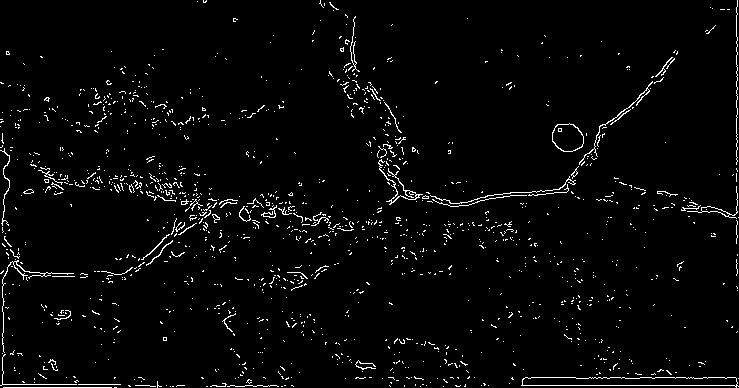
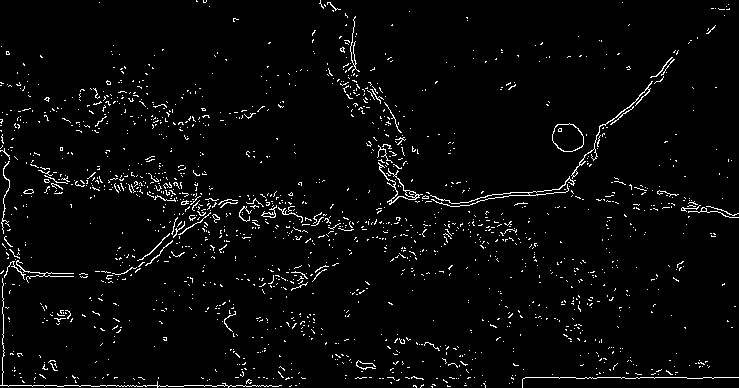
Image Processing Algorithm updated

diff --git a/Extracting_info/combine_integral.py b/Extracting_info/combine_integral.py
@@ -1,0 +1,61 @@
+#Horizontal integral projection
+import numpy as np
+import cv2 as cv
+from matplotlib import pyplot as plt
+
+img=cv.imread("Extracting_info/morphological.jpg",0)
+ret,img1=cv.threshold(img,80,255,cv.THRESH_BINARY)
+
+#to get the height and width of image
+(h,w)=img1.shape
+
+#初始化一个跟图像高一样长度的数组，用于记录每一行的黑点个数
+a=[0 for z in range(0,h)]
+
+for i in range(0,h):          #遍历每一行
+    for j in range(0,w):      #遍历每一列
+        if img1[i,j]==0:      #判断该点是否为黑点，0代表黑点
+            a[i]+=1           #该行的计数器加一
+            img1[i,j]=255     #将其改为白点，即等于255
+for i in range(0,h):          #遍历每一行
+    for j in range(0,a[i]):   #从该行应该变黑的最左边的点开始向最右边的点设置黑点
+        img1[i,j]=0           #设置黑点
+
+#垂直投影
+import numpy as np
+import cv2 as cv
+img=cv.imread("Extracting_info/morphological.jpg",0)
+ret,img2=cv.threshold(img,80,255,cv.THRESH_BINARY)
+
+#返回图像的高和宽
+(h,w)=img2.shape
+
+#初始化一个跟图像宽一样长度的数组，用于记录每一列的黑点个数
+a =[0 for z in range(0,w)]
+
+for i in range(0,w):           #遍历每一列
+    for j in range(0,h):       #遍历每一行
+        if img2[j,i]==0:       #判断该点是否为黑点，0代表是黑点
+            a[i]+=1            #该列的计数器加1
+            img2[j,i]=255      #记录完后将其变为白色，即等于255
+for i in range(0,w):           #遍历每一列
+    for j in range(h-a[i],h):  #从该列应该变黑的最顶部的开始向最底部设为黑点
+        img2[j,i]=0            #设为黑点
+
+gridsize = (4, 4)
+fig = plt.figure(figsize=(12, 6))
+ax1 = plt.subplot2grid(gridsize, (0, 1), colspan=3, rowspan=3) 
+ax1.imshow(img,cmap = 'gray')
+plt.xticks([])
+plt.yticks([])
+ax2 = plt.subplot2grid(gridsize, (0, 0), rowspan=3)
+img1 = cv.resize(img1,(500,1300))
+ax2.imshow(img1,cmap = 'gray')
+plt.xticks([])
+plt.yticks([])
+ax3 = plt.subplot2grid(gridsize, (3, 1), colspan=3)
+img2 = cv.resize(img2,(3200,500))
+ax3.imshow(img2,cmap = 'gray')
+plt.xticks([])
+plt.yticks([])
+plt.show()

diff --git a/Extracting_info/largest_contour.py b/Extracting_info/largest_contour.py
@@ -1,0 +1,28 @@
+import cv2
+import numpy as np
+import matplotlib.pyplot as plt
+
+if __name__ == '__main__':
+    img = cv2.imread('Extracting_info/morphological.jpg')
+    gray = cv2.cvtColor(img, cv2.COLOR_BGR2GRAY)
+
+    #find contours of all the components and holes 
+    gray_temp = gray.copy() #copy the gray image because function
+                            #findContours will change the imput image into another  
+    contours, hierarchy = cv2.findContours(gray_temp, cv2.RETR_TREE, cv2.CHAIN_APPROX_NONE)
+
+    #show the contours of the imput image
+    cv2.drawContours(img, contours, -1, (0, 255, 255), 2)
+    plt.figure('original image with contours'), plt.imshow(img, cmap = 'gray')
+
+    #find the max area of all the contours and fill it with 0
+    area = []
+    for i in range(len(contours)):
+        area.append(cv2.contourArea(contours[i]))
+    max_idx = np.argmax(area)
+    cv2.fillConvexPoly(gray, contours[max_idx], 0)
+    #show image without max connect components 
+    plt.figure('remove max connect com'), plt.imshow(gray, cmap = 'gray')
+
+    cv2.imwrite('Extracting_info/largest_contour.jpg', gray)
+    plt.show()

diff --git a/Extracting_info/contour_area_count.py b/Extracting_info/contour_area_count.py
@@ -1,0 +1,31 @@
+import cv2
+import numpy as np
+
+# Load image, convert to grayscale, Otsu's threshold
+image = cv2.imread('Extracting_info/largest_contour.jpg')
+gray = cv2.cvtColor(image,cv2.COLOR_BGR2GRAY)
+thresh = cv2.threshold(gray, 0, 255, cv2.THRESH_BINARY + cv2.THRESH_OTSU)[1]
+
+# Find contours, obtain bounding rect, and draw width
+cnts = cv2.findContours(thresh, cv2.RETR_EXTERNAL, cv2.CHAIN_APPROX_SIMPLE)
+print(type(cnts))
+cnts = cnts[0] if len(cnts) == 2 else cnts[1]
+for c in cnts:
+    x,y,w,h = cv2.boundingRect(c)
+    area = cv2.contourArea(c)
+    if area < 3:
+        continue
+    if h < 30 or h >150:
+        continue
+    print(area)
+    rect = cv2.minAreaRect(c)
+    box = cv2.boxPoints(rect)
+    box = np.int0(box)
+    print(box)
+    image = cv2.drawContours(image,[box],0,(0,0,255),2)
+    cv2.putText(image, str(area), (x,y), cv2.FONT_HERSHEY_SIMPLEX, 0.5, (36,255,12), 2)
+    #cv2.rectangle(image, (x, y), (x + w, y + h), (36,255,12), 1)
+
+cv2.imshow('image', image)
+cv2.imwrite('Extracting_info/final_result.jpg', image)
+cv2.waitKey()

diff --git a/Extracting_info/morphological.py b/Extracting_info/morphological.py
@@ -2,12 +2,13 @@ import cv2 as cv
 import numpy as np
 from matplotlib import pyplot as plt
 img = cv.imread('Extracting_info/canny_edge.jpg',0)
-kernel = np.ones((4,4),np.uint8)
+kernel = np.ones((3,3),np.uint8)
 closing = cv.morphologyEx(img, cv.MORPH_CLOSE, kernel)
 
+cv.imwrite('Extracting_info/morphological_new.jpg', closing)
 plt.subplot(121),plt.imshow(img,cmap = 'gray')
 plt.title('Original Image'), plt.xticks([]), plt.yticks([])
 plt.subplot(122),plt.imshow(closing,cmap = 'gray')
 plt.title('Edge Image'), plt.xticks([]), plt.yticks([])
 plt.show()
-cv.imwrite('Extracting_info/morphological'+'.jpg', closing)
+

diff --git a/Extracting_info/bilateral.py b/Extracting_info/bilateral.py
@@ -2,12 +2,12 @@ import numpy as np
 import cv2 as cv
 from matplotlib import pyplot as plt
 
-img = cv.imread('Extracting_info/negative_image.png')
-kernel = np.ones((3,3),np.float32)/9
+img = cv.imread('Extracting_info/new_modify.png')
+kernel = np.ones((3,3),np.float32)/25
 dst = cv.filter2D(img,-1,kernel)
 plt.subplot(121),plt.imshow(img),plt.title('Original')
 plt.xticks([]), plt.yticks([])
 plt.subplot(122),plt.imshow(dst),plt.title('Averaging')
 plt.xticks([]), plt.yticks([])
-cv.imwrite('Extracting_info/bilateral_result'+'.jpg', dst)
+cv.imwrite('Extracting_info/bilateral_result.jpg', dst)
 plt.show()

diff --git a/Extracting_info/logarithmic_transform.py b/Extracting_info/logarithmic_transform.py
@@ -3,7 +3,7 @@ import numpy as np
 import matplotlib.pyplot as plt
    
 # Read an image
-image = cv2.imread('Extracting_info/negative_image.png')
+image = cv2.imread('Extracting_info/new_modify.png')
    
 # Apply log transformation method
 c = 255 / np.log(1 + np.max(image))
@@ -16,5 +16,5 @@ log_image = np.array(log_image, dtype = np.uint8)
 # Display both images
 plt.imshow(log_image)
 plt.show()
-cv2.imwrite('Extracting_info/logarithmic_result'+'.jpg', log_image)
+cv2.imwrite('Extracting_info/logarithmic_result.jpg', log_image)
 plt.show()

diff --git a/Extracting_info/canny_edge.py b/Extracting_info/canny_edge.py
@@ -2,10 +2,10 @@ import numpy as np
 import cv2 as cv
 from matplotlib import pyplot as plt
 img = cv.imread('Extracting_info/bilateral_result.jpg',0)
-edges = cv.Canny(img,120,120)
+edges = cv.Canny(img,40,40)
 plt.subplot(121),plt.imshow(img,cmap = 'gray')
 plt.title('Original Image'), plt.xticks([]), plt.yticks([])
 plt.subplot(122),plt.imshow(edges,cmap = 'gray')
 plt.title('Edge Image'), plt.xticks([]), plt.yticks([])
 plt.show()
-cv.imwrite('Extracting_info/canny_edge'+'.jpg', edges)
+cv.imwrite('Extracting_info/canny_edge.jpg', edges)

diff --git a/Extracting_info/horizontal_integral.py b/Extracting_info/horizontal_integral.py
@@ -18,6 +18,8 @@ for i in range(0,h):          #遍历每一行
 for i in range(0,h):          #遍历每一行
     for j in range(0,a[i]):   #从该行应该变黑的最左边的点开始向最右边的点设置黑点
         img1[i,j]=0           #设置黑点
+img1 = cv.resize(img1,(1000,500))
 cv.imshow("img",img1)
+cv.imwrite('Extracting_info/horizontal_integral.jpg', img1)
 cv.waitKey(0)
 cv.destroyAllWindows()

diff --git a/Extracting_info/vertical_integral.py b/Extracting_info/vertical_integral.py
@@ -18,6 +18,8 @@ for i in range(0,w):           #遍历每一列
 for i in range(0,w):           #遍历每一列
     for j in range(h-a[i],h):  #从该列应该变黑的最顶部的开始向最底部设为黑点
         img1[j,i]=0            #设为黑点
+img1 = cv.resize(img1,(1000,500))
 cv.imshow("img",img1)
 cv.waitKey(0)
+cv.imwrite('Extracting_info/vertical_integral.jpg', img1)
 cv.destroyAllWindows()

diff --git a/Extracting_info/test2.py b/Extracting_info/test2.py
@@ -1,0 +1,10 @@
+import numpy as np
+import cv2
+from matplotlib import pyplot as plt
+
+img = cv2.imread('Extracting_info/morphological.jpg')
+gray = cv2.cvtColor(img,cv2.COLOR_BGR2GRAY)
+ret, thresh = cv2.threshold(gray,0,255,cv2.THRESH_BINARY_INV+cv2.THRESH_OTSU)
+
+cv2.imshow('thresh',thresh) 
+cv2.waitKey(0) 
